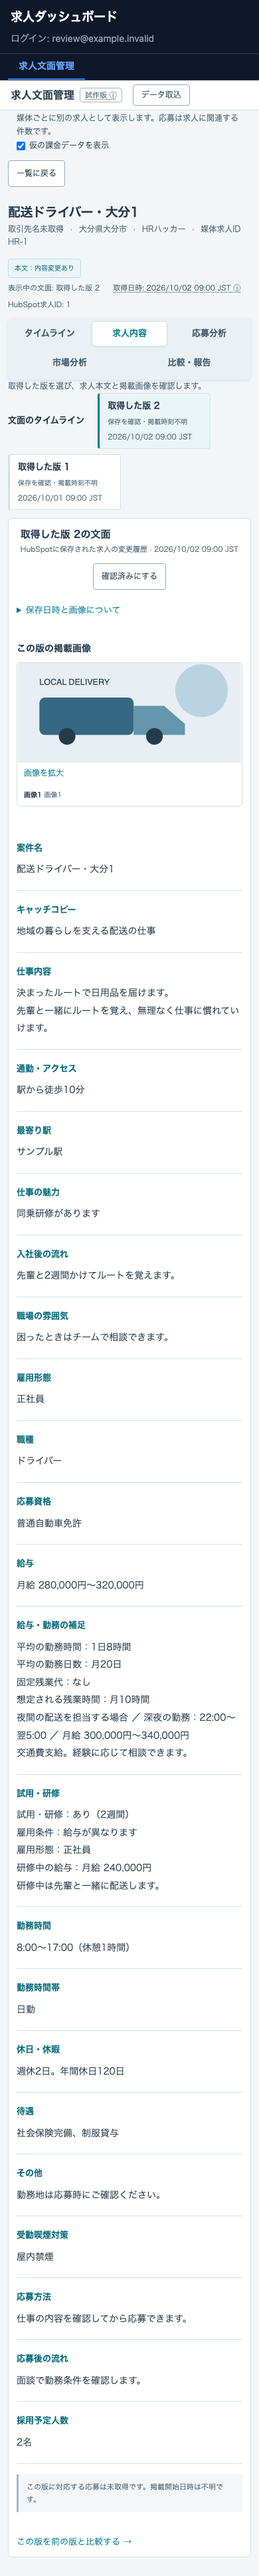
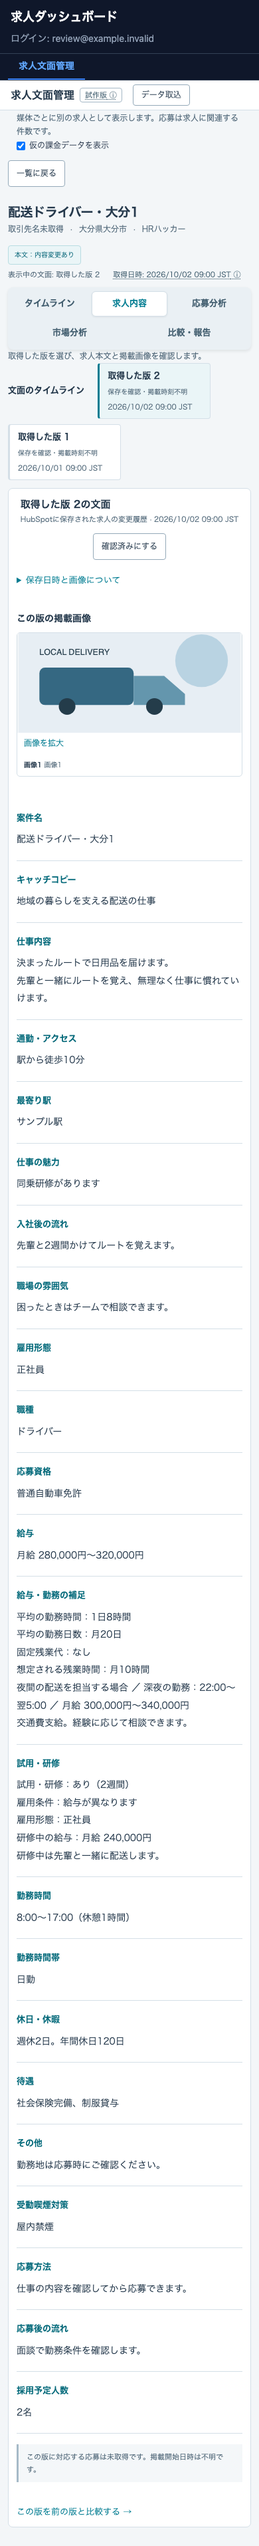
求人文面管理の本文解析と職種分類、スマホ注意書き、ID表示を修正

diff --git a/frontend/src/screens/job-copy/hrhCopy.ts b/frontend/src/screens/job-copy/hrhCopy.ts
@@ -1,3 +1,4 @@
+import columns from './hrhCopyColumns.json';
 /** HRハッカー compose_copy_body の列を、読みやすい求人票に組み直す。 */
 export interface BodySection { heading: string; text: string }
 const labels: Record<string, string> = {
@@ -10,20 +11,38 @@ const labels: Record<string, string> = {
   '試用・研修期の平均稼働時間': '平均の勤務時間', '試用・研修期の平均稼働日数': '平均の勤務日数', '試用・研修期の固定残業代': '固定残業代', '試用・研修期の想定残業時間': '想定される残業時間', '試用・研修の詳細情報': '詳細',
   勤務時間: '勤務時間', 勤務時間帯: '勤務時間帯', 受動喫煙対策: '受動喫煙対策', 受動喫煙についての補足情報: '喫煙に関する案内', 応募方法: '応募方法', 応募後のプロセス: '応募後の流れ', 採用予定人数: '採用予定人数',
 };
-const extra = /^(仕事情報補足|自由項目)([1-4])の(タイトル|内容)$/;
 const conditional = /^条件付き給与([1-3])(?:の|\s*)(条件|深夜帯|最小給与|最大給与)$/;
-/** Only CSV column names start fields. Colons inside multiline descriptions remain text. */
+/** Choose the longest forward column sequence, anchored at the first field.
+ * Equal sequences for the same column prefer the later occurrence, preserving
+ * column-like lines in an earlier multiline value. The source format is unescaped.
+ */
 export function parseHrhFields(body: string): Map<string, string> {
-  const fields = new Map<string, string>();
-  let key = '';
-  for (const line of body.split(/\r?\n/)) {
-    const match = /^([^：]+)：(.*)$/.exec(line);
-    const name = match?.[1]?.trim() ?? '';
-    if (match && (name in labels || extra.test(name) || conditional.test(name))) {
-      key = name; fields.set(key, match[2] ?? '');
-    } else if (key) fields.set(key, `${fields.get(key) ?? ''}\n${line}`);
+  const lines = body.split(/\r?\n/);
+  const candidates: { line: number; rank: number; value: string; length: number; next: number | null }[] = [];
+  lines.forEach((line, index) => {
+    const match = /^([^：:]+)[：:](.*)$/.exec(line);
+    const rank = columns.indexOf(match?.[1]?.trim() ?? '');
+    if (match && rank >= 0) candidates.push({ line: index, rank, value: match[2] ?? '', length: 1, next: null });
+  });
+  const best: (number | undefined)[] = Array.from({ length: columns.length });
+  for (let i = candidates.length - 1; i >= 0; i--) {
+    const candidate = candidates[i]; if (!candidate) continue;
+    for (let rank = candidate.rank + 1; rank < columns.length; rank++) {
+      const next = best[rank]; const following = next === undefined ? undefined : candidates[next];
+      if (following && following.length + 1 > candidate.length && next !== undefined) { candidate.length = following.length + 1; candidate.next = next; }
+    }
+    const existing = best[candidate.rank];
+    if (existing === undefined || candidate.length > (candidates[existing]?.length ?? 0)) best[candidate.rank] = i;
   }
-  return new Map([...fields].map(([name, value]) => [name, value.trim()]));
+  const fields = new Map<string, string>();
+  let index: number | null = candidates.length ? 0 : null;
+  while (index !== null) {
+    const candidate = candidates[index]; if (!candidate) break;
+    const end = candidate.next === null ? lines.length : candidates[candidate.next]?.line ?? lines.length;
+    fields.set(columns[candidate.rank] ?? '', [candidate.value, ...lines.slice(candidate.line + 1, end)].join('\n').trim());
+    index = candidate.next;
+  }
+  return fields;
 }
 const money = (value: string) => /^\d+(?:\.\d+)?$/.test(value.normalize('NFKC').replace(/,/g, ''))
   ? `${Number(value.normalize('NFKC').replace(/,/g, '')).toLocaleString('ja-JP')}円` : value;

diff --git a/frontend/src/screens/job-copy/JobCopyScreen.tsx b/frontend/src/screens/job-copy/JobCopyScreen.tsx
@@ -154,8 +154,9 @@ function CopyDetail({ job, records, onAdd, reviewed, onReview, billing, demo = f
   }
 
   return <article className="jc-detail" id="job-details" tabIndex={-1}>
-    <header className="jc-detail-heading"><div><h1>{job.title}</h1><p>{job.company} <span>·</span> {job.location} <span>·</span> {job.media} <span>·</span> 媒体求人ID {job.mediaJobId}</p></div><span className="jc-badge">本文：{statusLabels[changeStatus(job)]}</span></header>
-    <div className="jc-record-meta"><span>{current?.source === HUBSPOT_BODY_SOURCE ? '表示中の文面（HubSpotの現在値）' : '表示中の文面'}: {current?.label ?? '本文未取得'}</span><InfoTip className="jc-infotip-left" label={`取得日時: ${current ? date(current.observedAt) : '—'}`}><p>{current?.source === 'HubSpotで取得した現在の文面' ? '現在の文面を今回取得した日時です。保存された日時と掲載開始日時は不明です。' : job.id.startsWith('hubspot-history-') ? 'HubSpotに保存された日時です。掲載が変わった日時ではありません。' : 'ファイルを取得した日時です。掲載が変わった日時ではありません。'}</p></InfoTip>{job.hubspotId ? <span>HubSpot求人ID: {job.hubspotId}</span> : <InfoTip className="jc-infotip-left" label="HubSpotの求人と未連携"><p>この求人は、HubSpot の求人レコードとまだつながっていません。つながると、応募の件数と HubSpot へのリンクが表示されます。</p></InfoTip>}</div>
+    <header className="jc-detail-heading"><div><h1>{job.title}</h1><p>{job.company} <span>·</span> {job.location} <span>·</span> {job.media}</p></div><span className="jc-badge">本文：{statusLabels[changeStatus(job)]}</span></header>
+    {job.historyMayBeIncomplete && <p className="jc-notice" role="status">履歴は項目ごとに20件までの可能性があり、過去の版がすべて含まれているとは限りません。</p>}
+    <div className="jc-record-meta"><span>{current?.source === HUBSPOT_BODY_SOURCE ? '表示中の文面（HubSpotの現在値）' : '表示中の文面'}: {current?.label ?? '本文未取得'}</span><InfoTip className="jc-infotip-left" label={`取得日時: ${current ? date(current.observedAt) : '—'}`}><p>{current?.source === 'HubSpotで取得した現在の文面' ? '現在の文面を今回取得した日時です。保存された日時と掲載開始日時は不明です。' : job.id.startsWith('hubspot-history-') ? 'HubSpotに保存された日時です。掲載が変わった日時ではありません。' : 'ファイルを取得した日時です。掲載が変わった日時ではありません。'}</p></InfoTip>{job.hubspotId ? null : <InfoTip className="jc-infotip-left" label="HubSpotの求人と未連携"><p>この求人は、HubSpot の求人レコードとまだつながっていません。つながると、応募の件数と HubSpot へのリンクが表示されます。</p></InfoTip>}</div>
     {message && <p className="jc-message" role="status">{message}</p>}
     <JobFeatureTabs value={tab} onChange={setTab} remembered={remembered} prefix={tabPrefix} onLeaveHidden={() => { openFeatureFromContent('timeline'); }}>
     <JobFeaturePanel feature="timeline" active={tab === 'timeline'} prefix={tabPrefix}>{visited.includes('timeline') && <JobTimeline job={job} billing={billing} showDummyBilling={showDummyBilling} marketMode={demo ? 'demo' : 'api'} onOpenVersion={id => { setSelected(id); openFeatureFromContent('body'); }} onCompareVersions={(from, to) => { setBefore(from); setAfter(to); openFeatureFromContent('diff'); }} />}</JobFeaturePanel>

diff --git a/frontend/src/screens/job-copy/hrhCopy.test.tsx b/frontend/src/screens/job-copy/hrhCopy.test.tsx
@@ -12,6 +12,11 @@ afterEach(cleanup);
 const body = '案件名：架空の配送求人\n仕事内容：\n日用品を届けます。\n例：朝に積み込みます。\nキャッチコピー：地域を支える仕事\n仕事情報補足1のタイトル：入社後の流れ\n仕事情報補足2のタイトル：職場の雰囲気\n仕事情報補足1の内容：先輩と同行します。\n仕事情報補足2の内容：チームで相談できます。\nIndeed表示職種名：ドライバー\n給与形態：月給\n基本給与 最小：250000\n基本給与 最大：280000\nタスクの所要時間：2\nタスクの単位：時間\n平均稼働時間：1日8時間\n平均稼働日数：月20日\n固定残業代：30000\n想定残業時間：月20時間\n条件付き給与1 条件：夜間勤務の場合\n条件付き給与1 深夜帯：22時〜5時\n条件付き給与1 最小給与：270000\n条件付き給与1 最大給与：300000\n給与補足：交通費支給\n試用・研修の有無：あり\n試用・研修時の雇用条件：給与が異なります\n試用・研修期の給与のタイプ：月給\n試用・研修期の基本給与 最小：240000\n試用・研修期の基本給与 最大：240000\n試用・研修期の平均稼働時間：1日8時間\n試用・研修の詳細情報：同乗研修2週間\n自由項目1のタイトル：休日・休暇\n自由項目1の内容：週休2日\n自由項目2の内容：制服貸与';
 const history: HubSpotVersions = { listing: { id: '42', media: 'hrh', media_job_id: 'SAMPLE42', account_id: null, title: '架空求人', prefecture: null, municipality: null, category: null, publication_status: null, last_csv_detected_at: null, application_count: null }, versions: [{ written_at: '2026-10-01T00:00:00Z', body, image_urls: [] }, { written_at: '2026-10-02T00:00:00Z', body: body.replace('基本給与 最小：250000', '基本給与 最小：260000'), image_urls: [] }], history_counts: {}, history_may_be_incomplete: false };
 describe('本番形式のHRハッカー求人票', () => {
+  it('keeps column-like lines inside a three-line description and the actual qualification', () => {
+    const sections = hrhCopySections('仕事内容：\nご案内\n応募資格：未経験可\n補足\n応募資格：普通免許');
+    expect(sections).toContainEqual({ heading: '仕事内容', text: 'ご案内\n応募資格：未経験可\n補足' });
+    expect(sections).toContainEqual({ heading: '応募資格', text: '普通免許' });
+  });
   it('pairs separated titles and contents, retains multiline descriptions, and uses applicant-facing headings', () => {
     const sections = hrhCopySections(body);
     expect(sections).toContainEqual({ heading: '仕事内容', text: '日用品を届けます。\n例：朝に積み込みます。' });

diff --git a/tests/e2e/job_copy_listings_workspace.spec.ts b/tests/e2e/job_copy_listings_workspace.spec.ts
@@ -130,3 +130,29 @@ test('390×844: mobile list shows at least four whole jobs, opens detail and ret
   await page.getByRole('button', { name: '一覧に戻る', exact: true }).click();
   await expect(list).toBeVisible();
 });
+
+test('390px: incomplete history warning stays visible in detail and raw IDs are absent', async ({ page }) => {
+  await page.setViewportSize({ width: 390, height: 1000 });
+  await page.route('**/api/job-copy/listings/1/versions', route => route.fulfill({ json: { ...fixtureHistory('1'), versions: Array.from({ length: 20 }, (_, index) => ({ ...fixtureHistory('1').versions[index % 2], written_at: `2026-09-${String(index + 1).padStart(2, '0')}T00:00:00Z` })), history_may_be_incomplete: true, history_counts: { hrh_kyuujinhyou_honbun: 20, hrh_kyuujinhyou_gazou: 2 } } }));
+  await page.goto('/app/job-copy?demo=1');
+  await page.getByRole('button', { name: 'HubSpot の求人', exact: true }).click();
+  const list = page.getByRole('region', { name: 'HubSpot の求人' });
+  await expect(list.getByRole('button', { name: /の版を見る$/ })).toHaveCount(40);
+  await list.getByRole('button', { name: '配送ドライバー・大分1の版を見る' }).click();
+  await expect(page.locator('.jc-main').getByText(/過去の版がすべて含まれているとは限りません/)).toBeVisible();
+  await expect(page.locator('.jc-main').getByText(/過去の版がすべて含まれているとは限りません/)).toBeInViewport();
+  await expect(page.locator('.jc-main')).not.toContainText(/HR-|HubSpot求人ID/);
+  await page.screenshot({ path: path.join(shots, 'history-warning-390.png') });
+});
+
+test('1440px: listing and detail do not expose raw IDs', async ({ page }) => {
+  await page.setViewportSize({ width: 1440, height: 1000 });
+  await page.goto('/app/job-copy?demo=1');
+  await page.getByRole('button', { name: 'HubSpot の求人', exact: true }).click();
+  const list = page.getByRole('region', { name: 'HubSpot の求人' });
+  await expect(list.getByRole('button', { name: /の版を見る$/ })).toHaveCount(40);
+  await expect(list).not.toContainText(/HR-|HubSpot求人ID/);
+  await list.getByRole('button', { name: '配送ドライバー・大分1の版を見る' }).click();
+  await expect(page.getByLabel('求人票')).toContainText('決まったルート');
+  await expect(page.locator('.jc-main')).not.toContainText(/HR-|HubSpot求人ID/);
+});

diff --git a/frontend/src/screens/job-copy/HubSpotListingsPanel.tsx b/frontend/src/screens/job-copy/HubSpotListingsPanel.tsx
@@ -71,8 +71,8 @@ export function HubSpotListingsPanel({ onOpen, active = true, onLoading, onFailu
       <div className="jc-list-scroll" aria-label="HubSpotの求人一覧">{rows.map(row => <button type="button" className="jc-job jc-hubspot-job" key={row.id} aria-pressed={row.id === selected} aria-label={`${row.title ?? '求人'}の版を見る`} onClick={() => { void open(row); }}>
         <span className="jc-job-company">{mediaLabel(row.media)} <span className="jc-publication">{row.publication_status ?? '未取得'}</span></span>
         <strong>{row.title ?? '求人名未取得'}</strong><span>{row.prefecture ?? '不明'}{row.municipality ?? ''} · {row.category ?? '職種不明'}</span>
-        <span className="jc-job-bottom"><small>応募 {row.application_count === null ? '未取得' : `${String(row.application_count)}件`}</small><small>{row.media_job_id}</small></span>
-        <span className="jc-visually-hidden">{row.account_id ? `${row.account_id} / ` : ''}{row.media_job_id} 媒体の一覧で最後に確認した日：{formatDateTimeJst(row.last_csv_detected_at, '未取得')}</span>
+        <span className="jc-job-bottom"><small>応募 {row.application_count === null ? '未取得' : `${String(row.application_count)}件`}</small></span>
+        <span className="jc-visually-hidden">媒体の一覧で最後に確認した日：{formatDateTimeJst(row.last_csv_detected_at, '未取得')}</span>
       </button>)}{!rows.length && <p>条件に合う求人はありません。</p>}</div>
       <div className="jc-list-pagination"><span>{page.total ? `${String(page.offset + 1)}〜${String(page.offset + rows.length)}件を表示` : '条件に合う求人はありません'}</span>{page.offset > 0 && <button className="jc-button" disabled={busy} onClick={() => { void load(Math.max(0, page.offset - 50)); }}>前の求人</button>}{page.next_offset !== null && <button type="button" className="jc-button" disabled={busy} onClick={() => { void load(page.next_offset ?? 0); }}>次の求人</button>}</div>
     </>}

diff --git a/frontend/src/screens/job-copy/hubspotListings.ts b/frontend/src/screens/job-copy/hubspotListings.ts
@@ -22,7 +22,7 @@ export function listingRecord(data: HubSpotVersions): JobCopyRecord {
   const row = data.listing;
   const copy = (body: string) => row.media === 'hrh' ? { body: composeHrhBody(body), bodySections: hrhCopySections(body) } : { body, bodySections: body.trim() ? [{ heading: '仕事内容', text: body }] : [] };
   return {
-    id: `hubspot-history-${row.id}`, hubspotId: row.id, dataSource: 'hubspot',
+    id: `hubspot-history-${row.id}`, hubspotId: row.id, historyMayBeIncomplete: data.history_may_be_incomplete, dataSource: 'hubspot',
     title: row.title ?? '求人名未取得', company: '取引先名未取得', media: mediaLabel(row.media),
     mediaJobId: row.media_job_id, ...(row.account_id ? { accountId: row.account_id } : {}),
     location: [row.prefecture, row.municipality].filter(Boolean).join('') || '勤務地不明',

diff --git a/frontend/src/screens/job-copy/job-copy.css b/frontend/src/screens/job-copy/job-copy.css
@@ -290,5 +290,5 @@
   .jc-listings-panel .jc-index-date { font-size: 10px; line-height: 1.4; margin: 0; }
   .jc-list-source button { min-height: 32px; font-size: 12px; }
   .jc-listings-panel > .jc-button { min-height: 28px; padding: 3px; font-size: 11px; }
-  .jc-history-status { display: none; }
+
 }

diff --git a/frontend/src/screens/job-copy/data.ts b/frontend/src/screens/job-copy/data.ts
@@ -33,6 +33,7 @@ export interface JobCopyRecord {
   id: string;
   currentImageObservation?: { observedAt: string; images: CopyImage[] };
   hubspotId?: string;
+  historyMayBeIncomplete?: boolean;
   dataSource?: 'hubspot';
   hubspotUrl?: string;
   attributionUnknown?: number;

diff --git a/src/handlers/job_copy_live/hrh_copy.rs b/src/handlers/job_copy_live/hrh_copy.rs
@@ -1,0 +1,76 @@
+//! Same ordered, unescaped CSV body reader as frontend/hrhCopy.ts.
+use std::{collections::HashMap, sync::LazyLock};
+static COLUMNS: LazyLock<Vec<String>> = LazyLock::new(|| {
+    serde_json::from_str(include_str!(
+        "../../../frontend/src/screens/job-copy/hrhCopyColumns.json"
+    ))
+    .expect("checked-in HRハッカー column list must be valid JSON")
+});
+struct Candidate<'a> {
+    line: usize,
+    rank: usize,
+    value: &'a str,
+    length: usize,
+    next: Option<usize>,
+}
+pub(super) fn fields(body: &str) -> HashMap<&str, String> {
+    let lines: Vec<_> = body.lines().collect();
+    let mut candidates: Vec<_> = lines
+        .iter()
+        .enumerate()
+        .filter_map(|(line, text)| {
+            let (name, value) = text.split_once(['：', ':'])?;
+            let rank = COLUMNS.iter().position(|column| column == name.trim())?;
+            Some(Candidate {
+                line,
+                rank,
+                value,
+                length: 1,
+                next: None,
+            })
+        })
+        .collect();
+    let mut best: Vec<Option<usize>> = vec![None; COLUMNS.len()];
+    for i in (0..candidates.len()).rev() {
+        let mut next = None;
+        let mut length = 1;
+        for &following in &best[candidates[i].rank + 1..] {
+            if let Some(j) = following {
+                if candidates[j].length + 1 > length {
+                    length = candidates[j].length + 1;
+                    next = Some(j);
+                }
+            }
+        }
+        candidates[i].length = length;
+        candidates[i].next = next;
+        let rank = candidates[i].rank;
+        if best[rank].is_none_or(|j| length > candidates[j].length) {
+            best[rank] = Some(i);
+        }
+    }
+    let mut fields = HashMap::new();
+    let mut index = (!candidates.is_empty()).then_some(0);
+    while let Some(i) = index {
+        let candidate = &candidates[i];
+        let end = candidate.next.map_or(lines.len(), |j| candidates[j].line);
+        let mut value = vec![candidate.value];
+        value.extend_from_slice(&lines[candidate.line + 1..end]);
+        fields.insert(
+            COLUMNS[candidate.rank].as_str(),
+            value.join("\n").trim().to_owned(),
+        );
+        index = candidate.next;
+    }
+    fields
+}
+#[cfg(test)]
+mod tests {
+    use super::*;
+    #[test]
+    fn job_copy_ordered_fields_preserve_embedded_column_lines() {
+        let parsed = fields("仕事内容：\nご案内\n応募資格：未経験可\n補足\n応募資格：普通免許");
+        assert_eq!(parsed["仕事内容"], "ご案内\n応募資格：未経験可\n補足");
+        assert_eq!(parsed["応募資格"], "普通免許");
+    }
+}

diff --git a/src/handlers/job_copy_live/listings.rs b/src/handlers/job_copy_live/listings.rs
@@ -100,16 +100,12 @@ fn listing(record: &Record, titles: &[String]) -> Option<Listing> {
     };
     let (prefecture, municipality, occupation) = if media == "hrh" {
         let body = record.value("hrh_kyuujinhyou_honbun").unwrap_or("");
-        let occupation = body
+        let occupation = super::hrh_copy::fields(body)
+            .remove("Indeed表示職種名")
+            .unwrap_or_default()
             .lines()
-            .find_map(|line| {
-                line.trim()
-                    .strip_prefix("Indeed表示職種名：")
-                    .or_else(|| line.trim().strip_prefix("Indeed表示職種名:"))
-            })
-            .unwrap_or("")
-            .trim()
-            .to_owned();
+            .map(str::trim)
+            .collect::<String>();
         (
             record.value("todoufuken").map(str::to_owned),
             record.value("shikuchouson").map(str::to_owned),
@@ -633,6 +629,29 @@ pub(super) async fn read_versions(
 #[cfg(test)]
 mod tests {
     use super::*;
+    #[test]
+    fn job_copy_multiline_occupation_is_classified_and_filtered() {
+        let record: Record = serde_json::from_value(json!({"id":"1","properties":{"id_hrhakkaa":"HR-1","hrh_kyuujinhyou_honbun":"仕事内容：配送します\nIndeed表示職種名：\n配送\nドライバー\n応募資格：普通免許","todoufuken":"沖縄県"}})).unwrap();
+        let titles = vec!["配送ドライバー".into()];
+        let row = listing(&record, &titles).unwrap();
+        assert_eq!(row.category.as_deref(), Some("配送ドライバー"));
+        let index = Index {
+            records: vec![row],
+            titles,
+            built_at: "2026-10-10T00:00:00Z".into(),
+        };
+        let (total, page) = selected_page(
+            &index,
+            &ListingsQuery {
+                prefecture: Some("沖縄県".into()),
+                title: Some("配送ドライバー".into()),
+                media: Some("hrh".into()),
+                ..Default::default()
+            },
+        );
+        assert_eq!(total, 1);
+        assert_eq!(page[0].listing.id, "1");
+    }
     #[test]
     fn job_copy_title_and_prefecture_specific_values() {
         let titles = vec![

diff --git a/src/handlers/job_copy_live.rs b/src/handlers/job_copy_live.rs
@@ -23,6 +23,7 @@ use tower_sessions::Session;
 mod applicant_extensions;
 pub mod applicant_reasons;
 mod listing_status;
+mod hrh_copy;
 mod listings;
 
 #[derive(Debug)]

diff --git a/docs/architecture/job-copy-hubspot-ui-review.md b/docs/architecture/job-copy-hubspot-ui-review.md
@@ -49,9 +49,22 @@ PR #131 の画面を40求人のモックで再現した（HRハッカー30件・
 
 ## 検証
 
-- `CARGO_TARGET_DIR=.../codex-jobcopy/target-private cargo test --lib job_copy`: 127成功・既存2件無視。現在値の本文と取得日時、画像manifest検証・会社関連一致／不一致・別求人拒否を追加。
-- frontend typecheck・lint・Vitest: 556成功（本番形式の6テストを追加）。
-- HubSpot一覧のPlaywright: 7件（3画面幅で40行、選択後の具体本文・画像decode、給与とタイムライン・比較の受け渡し、下端までの一覧、390×844で4件以上・390×1000で5件以上の求人表示と詳細往復、準備中から自動移行、1版・履歴なし・空本文・取得失敗・読み込み中）。
+- `CARGO_TARGET_DIR=.../codex-jobcopy/target-private cargo test --lib job_copy`: 129成功・既存2件無視。現在値の本文と取得日時、画像manifest検証・会社関連一致／不一致・別求人拒否を追加。
+- frontend typecheck・lint・Vitest: 557成功（本番形式の7テスト）。
+- HubSpot一覧のPlaywright: 9件（3画面幅で40行、選択後の具体本文・画像decode、給与とタイムライン・比較の受け渡し、下端までの一覧、390×844で4件以上・390×1000で5件以上の求人表示と詳細往復、準備中から自動移行、1版・履歴なし・空本文・取得失敗・読み込み中）。
 - 既存のjob-copy-server E2E: 27成功。タイムラインpreview E2E: 2成功。APIと画像はモックであり、実HubSpotの求人・応募や本番へ書き込まない。
 
 再現コマンド: `npx playwright test -c tests/e2e/job-copy-listings.config.ts`。共通ヘッダー付きモック画面は、`node tests/e2e/job-copy-listings-mock-server.mjs` → `http://127.0.0.1:5197/app/job-copy?demo=1`。
+
+## main 取り込み後の追加レビュー4件（2026-10-10）
+
+- 仕事内容内の `応募資格：未経験可` を本当の列として扱い、後の応募資格で上書きしていた。`hrhCopyColumns.json` に本番 `COPY_TEXT_COLUMNS` の順番を置き、フロントとRustで共有する。最初の列を起点に、列番号が前へ進む最長の並びを選ぶ。同じ列の候補が重なる場合は後ろを選び、選ばれなかった行は前の値に残す。指定例は仕事内容「ご案内\n応募資格：未経験可\n補足」、応募資格「普通免許」のままになる。DockerのRustビルドにも共有JSONを含める。
+- サーバーの職種はラベルと同じ行しか読んでいなかった。同じ列読み取りで `Indeed表示職種名：\n配送\nドライバー` を取得し、値の行をつないで「配送ドライバー」に分類する。沖縄県×配送ドライバー×HRハッカーの絞り込みで合計1件・求人1を返すテストを追加した。索引の本文保持やHubSpot呼び出しは増やさない。
+- スマホでは履歴欄自体がCSSで隠され、詳細表示中は一覧も隠れる。CSSの非表示を取り除き、不完全の可能性がある場合は詳細にも注意書きを表示する。390pxで履歴20件を返すモックを使い、注意書きが画面内に見えることを確認した。
+- 一覧の媒体ID・アカウントと詳細の媒体ID・HubSpot IDを表示から取り除いた。内部の関連付け・画像取得のIDは維持する。1440pxと390pxで一覧・詳細の文字に `HR-` / `HubSpot求人ID` が無いことを確認した。
+
+修正前の失敗を確認: フロントの本文テスト1件、Rustの分類・絞り込みテスト1件、Playwrightの注意書きとID表示2件。修正後はフロント557件、Rust129件（既存2件無視）、一覧E2E9件・既存サーバーE2E27件・タイムラインE2E2件。typecheck・lint成功。clippyは既存962警告と比較して新規0件。
+
+[390px・履歴20件の注意書き](../screenshots/job-copy-hubspot-ui/history-warning-390.png)。既存の1440/1920/390pxの本文・画像・一覧・給与の画像も再撮影した。
+
+元形式は値の行をエスケープしない。値内の行が省略された別列と同名で、かつ列順にも合う場合は、文字列だけでは完全に区別できない。今回の規則で指定された重複・列順違反による欠落を防ぐが、完全な識別には取込側の区切り方式の変更が必要。このPRではHubSpotへの書き込み・取込処理の変更は行わない。
